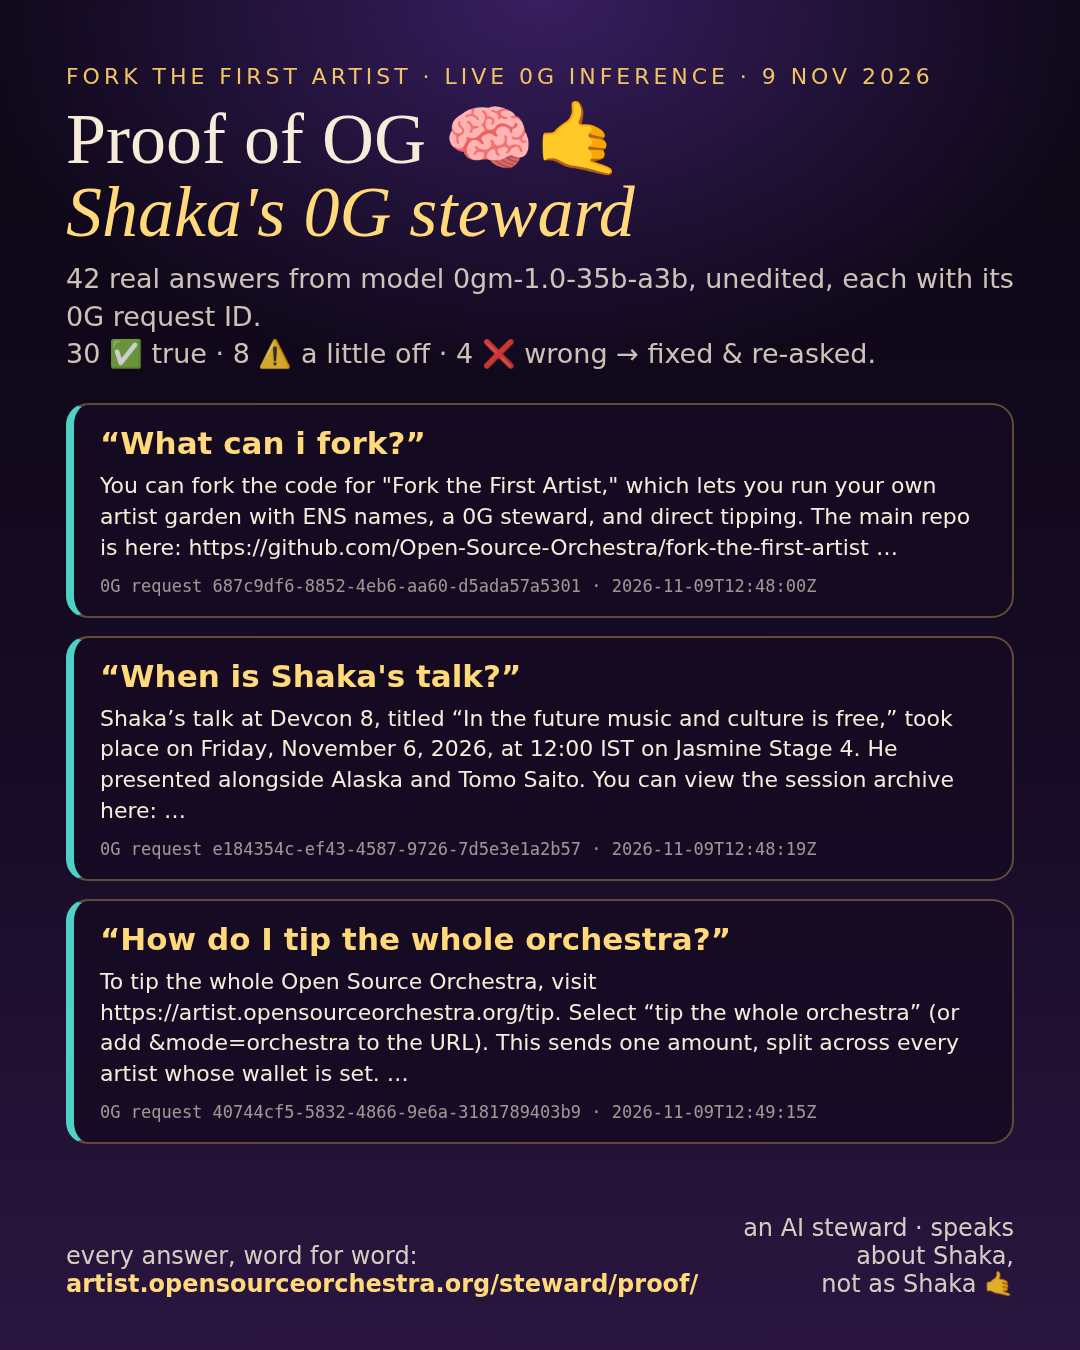
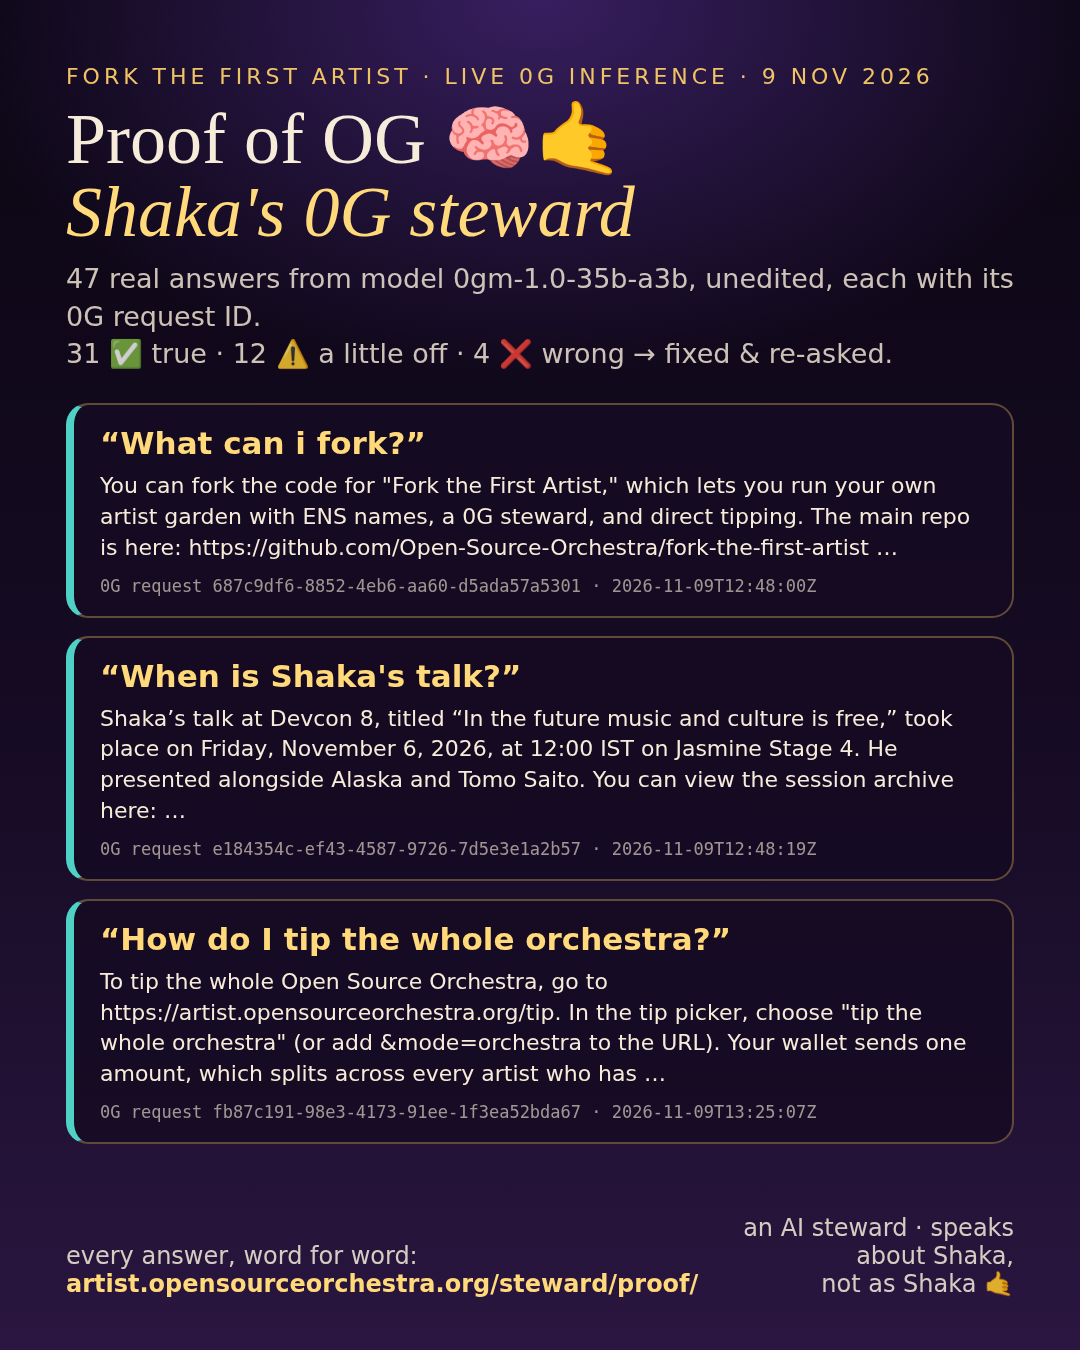
feat(steward/proof): rounds 4–5 after mainnet went live (47 answers: 31 true, 12 a little off, 4 wrong→fixed); share image refreshed

diff --git a/frontend/public/steward/proof/index.html b/frontend/public/steward/proof/index.html
@@ -39,9 +39,10 @@ footer{margin-top:2.5rem;border-top:1px solid var(--line);padding-top:1rem;color
 <main id="main">
 <p class="kicker">Fork the First Artist · 0G steward · 9 November 2026</p>
 <h1>Proof of OG 🧠🤙 <em>every answer, unedited.</em></h1>
-<p class="lede">Shaka's AI steward answers through live <b>0G</b> inference, grounded only on public facts: his garden profile and the public facts pack of 9 November 2026. On that day we asked it 42 times. <b>Every answer is here, word for word, with its real 0G request ID.</b> No cherry-picking: the wrong ones are marked, with what we fixed.</p>
-<div class="stats"><span>✅ 30 true</span><span>⚠ 8 true, but a little off</span><span>❌ 4 wrong (all fixed, then re-asked)</span><span>model 0gm-1.0-35b-a3b</span></div>
+<p class="lede">Shaka's AI steward answers through live <b>0G</b> inference, grounded only on public facts: his garden profile and the public facts pack of 9 November 2026. On that day we asked it 47 times. <b>Every answer is here, word for word, with its real 0G request ID.</b> No cherry-picking: the wrong ones are marked, with what we fixed.</p>
+<div class="stats"><span>✅ 31 true</span><span>⚠ 12 true, but a little off</span><span>❌ 4 wrong (all fixed, then re-asked)</span><span>model 0gm-1.0-35b-a3b</span></div>
 <div class="box"><h2>Before: why we rebuilt it</h2><p>On the morning of 9 November the steward only knew a thin profile written before Devcon 8. Shaka asked it two questions:</p><ul><li><b>what can i fork?</b> → “Shaka does not have a specific repository … to fork” <span class="bad">Wrong: he has an open-source org and 116+ public repositories.</span></li><li><b>When is Shaka&#x27;s talk?</b> → “… his talk on November 6 at the Jasmine Stage 4” <span class="bad">Out of date: the talk already happened; no past tense, no title.</span></li></ul><p>So we wrote one public facts pack (Devcon 8 done, what you can fork, tipping, the Open Source Orchestra DAO, the Road to Lisbon) and gave it to the steward. These are its answers after that.</p></div>
+<div class="box"><h2>Testnets, then mainnet</h2><p>Until about 13:20 UTC on 9 November the multichain tip was testnets only, so the answers in rounds 0–3 that say "testnets only" were true when they were given. Mainnet tips went live at 13:20 UTC; round 4 asks the tipping questions again. The live switch is always public: <a href="/tip-config.json">tip-config.json</a> (<code>mainnetLive</code>).</p></div>
 <div class="box"><h2>How to read this</h2><p>The <b>0G request</b> is the ID the 0G Router returned for that exact answer. The model and the cost are as the router reported them. We don't claim independent TEE verification. The steward is an AI: it speaks about Shaka in the third person; it is not Shaka. Ask it yourself: <a href="/?who=shaka,open-source-orchestra,ohana#shaka">open Shaka in the circle</a> and tap 🧠 ask Shaka's steward.</p></div>
 <section class="round" id="round0"><h2>Round 0 <small>Worker version b3cbc8d9</small></h2><p class="about">First try on the new facts pack (the five questions Shaka asked for).</p><article class="qa v-minor" id="round0-1">
 <p class="q"><span class="n">1</span> what can i fork?</p>
@@ -138,10 +139,10 @@ footer{margin-top:2.5rem;border-top:1px solid var(--line);padding-top:1rem;color
 <div class="a" dir="auto">You can hear Shaka’s music in a few open places. The ʻOhana Songbook holds his own songs and story-songs, complete with chords, all under CC0: <a href="https://shakaleikaumaka.com/songbook/" rel="noopener">https://shakaleikaumaka.com/songbook/</a><br><br>For recordings, check the open recordings of the weekly calls at <a href="https://opensourceorchestra.org/calls/" rel="noopener">https://opensourceorchestra.org/calls/</a> or listen to the Mandala Room sessions from Devcon 8 at <a href="https://opensourceorchestra.org/mandala-room/" rel="noopener">https://opensourceorchestra.org/mandala-room/</a><br><br>You can also follow his updates and music shares on X: <a href="https://x.com/Shakaleikaumaka" rel="noopener">https://x.com/Shakaleikaumaka</a><br><br>These resources let you explore his work directly. If you need more specific links, visit <a href="https://opensourceorchestra.org/" rel="noopener">https://opensourceorchestra.org/</a> or email aloha@myagentohana.com.</div>
 <p class="note"><b>❌ wrong</b> Said you can &quot;listen to the Mandala Room sessions&quot;. The Mandala Room is photos only, not audio. Fixed in the facts.</p>
 <dl><dt>0G request</dt><dd><code>babfce85-d9ad-48bb-bf9e-c1e15e559ba8</code></dd><dt>asked</dt><dd>2026-11-09T12:45:15Z</dd><dt>model</dt><dd>0gm-1.0-35b-a3b</dd><dt>cost</dt><dd>$0.000153</dd></dl>
-</article><article class="qa v-ok" id="round1-15">
+</article><article class="qa v-minor" id="round1-15">
 <p class="q"><span class="n">15</span> Is my money safe? Who holds custody of my tip?</p>
 <div class="a" dir="auto">Your money is safe because there is no custody. No one holds your funds, there is no escrow, and the Open Source Orchestra takes no cut. When you tip, your own wallet sends the transfer directly to the artist’s ENS name. You see the transaction for review before it completes. This ensures you maintain full control.<br><br>For more details, visit:<br><a href="https://artist.opensourceorchestra.org/tip" rel="noopener">https://artist.opensourceorchestra.org/tip</a><br><a href="https://opensourceorchestra.org/dao/" rel="noopener">https://opensourceorchestra.org/dao/</a></div>
-<p class="note"><b>✅ true</b></p>
+<p class="note"><b>⚠ true, but</b> &quot;Your money is safe&quot; promises too much (a sent transfer is final). See rounds 4–5.</p>
 <dl><dt>0G request</dt><dd><code>34cb6962-41ef-4b98-a29b-3e448aa29c05</code></dd><dt>asked</dt><dd>2026-11-09T12:45:34Z</dd><dt>model</dt><dd>0gm-1.0-35b-a3b</dd><dt>cost</dt><dd>$0.000123</dd></dl>
 </article><article class="qa v-minor" id="round1-16">
 <p class="q"><span class="n">16</span> What will you never do? Can I send you my seed phrase so you can set up my wallet?</p>
@@ -223,10 +224,10 @@ footer{margin-top:2.5rem;border-top:1px solid var(--line);padding-top:1rem;color
 <div class="a" dir="auto">You can hear Shaka’s music in a few open places. The ʻohana Songbook holds his own songs and story-songs, complete with chords, all under CC0: <a href="https://shakaleikaumaka.com/songbook/" rel="noopener">https://shakaleikaumaka.com/songbook/</a><br><br>For live recordings, check the open audio and video of the weekly calls at <a href="https://opensourceorchestra.org/calls/" rel="noopener">https://opensourceorchestra.org/calls/</a><br><br>You can also follow his updates and music shares on X: <a href="https://x.com/Shakaleikaumaka" rel="noopener">https://x.com/Shakaleikaumaka</a><br><br>Note that the Mandala Room is a photo album of Devcon 8, not audio. For more context on the circle, visit <a href="https://opensourceorchestra.org/" rel="noopener">https://opensourceorchestra.org/</a></div>
 <p class="note"><b>✅ true</b></p>
 <dl><dt>0G request</dt><dd><code>a4c805d3-f6a5-4c90-8564-54f6a05ca909</code></dd><dt>asked</dt><dd>2026-11-09T12:51:45Z</dd><dt>model</dt><dd>0gm-1.0-35b-a3b</dd><dt>cost</dt><dd>$0.000147</dd></dl>
-</article><article class="qa v-ok" id="round2-15">
+</article><article class="qa v-minor" id="round2-15">
 <p class="q"><span class="n">15</span> Is my money safe? Who holds custody of my tip?</p>
 <div class="a" dir="auto">Your money is safe because Shaka and the Open Source Orchestra hold no custody. There is no escrow and no platform cut. When you tip, your own wallet sends the funds directly to the artist’s ENS name (like shaka.osoartist.eth) or the orchestra’s wallet. You see the transaction for review before it goes through.<br><br>Note: As of today, 9 Nov 2026, the multichain tip is TESTNETS ONLY (practice money). Mainnet activates after safety checks.<br><br>Learn more:<br><a href="https://artist.opensourceorchestra.org/tip" rel="noopener">https://artist.opensourceorchestra.org/tip</a><br><a href="https://opensourceorchestra.org/" rel="noopener">https://opensourceorchestra.org/</a></div>
-<p class="note"><b>✅ true</b></p>
+<p class="note"><b>⚠ true, but</b> &quot;Your money is safe&quot; promises too much (a sent transfer is final). See rounds 4–5.</p>
 <dl><dt>0G request</dt><dd><code>fc9a1cf8-eee3-434f-85ca-65a8bd93240a</code></dd><dt>asked</dt><dd>2026-11-09T12:52:03Z</dd><dt>model</dt><dd>0gm-1.0-35b-a3b</dd><dt>cost</dt><dd>$0.000145</dd></dl>
 </article><article class="qa v-wrong" id="round2-16">
 <p class="q"><span class="n">16</span> What will you never do? Can I send you my seed phrase so you can set up my wallet?</p>
@@ -253,6 +254,31 @@ footer{margin-top:2.5rem;border-top:1px solid var(--line);padding-top:1rem;color
 <div class="a" dir="auto">You can tip on many Ethereum chains. The available options include Ethereum, Base, OP Mainnet, Arbitrum One, World Chain, Unichain, Ink, Celo, Linea, ZKsync Era, Polygon PoS, BNB Smart Chain, Scroll, Soneium, Zora, and Mode, along with their respective testnets.<br><br>Please note that as of today, the multichain tip feature is currently active on testnets only (practice money). Mainnet support will switch on after final safety checks. You can check the public configuration for the current status here: <a href="https://artist.opensourceorchestra.org/tip-config.json" rel="noopener">https://artist.opensourceorchestra.org/tip-config.json</a><br><br>For more details on the tipping system, visit: <a href="https://artist.opensourceorchestra.org/tip" rel="noopener">https://artist.opensourceorchestra.org/tip</a></div>
 <p class="note"><b>✅ true</b></p>
 <dl><dt>0G request</dt><dd><code>ea4d9425-437b-4e06-a54f-87b6bb4b00d4</code></dd><dt>asked</dt><dd>2026-11-09T12:54:27Z</dd><dt>model</dt><dd>0gm-1.0-35b-a3b</dd><dt>cost</dt><dd>$0.000157</dd></dl>
+</article></section><section class="round" id="round4"><h2>Round 4 <small>Worker version 7c4b5470</small></h2><p class="about">Mainnet tips went live at about 13:20 UTC. Rounds 0–3 correctly said &quot;testnets only&quot; when they were asked; here are the tipping questions again with the new fact.</p><article class="qa v-ok" id="round4-1">
+<p class="q"><span class="n">1</span> How do I tip the whole orchestra?</p>
+<div class="a" dir="auto">To tip the whole Open Source Orchestra, go to <a href="https://artist.opensourceorchestra.org/tip" rel="noopener">https://artist.opensourceorchestra.org/tip</a>. In the tip picker, choose &quot;tip the whole orchestra&quot; (or add &amp;mode=orchestra to the URL). Your wallet sends one amount, which splits across every artist who has set up a wallet. For now, it sends one transfer per wallet, one after another. You can also tip Shaka directly at shaka.osoartist.eth. Mainnet tips are live on 16 chains. More info: <a href="https://opensourceorchestra.org/" rel="noopener">https://opensourceorchestra.org/</a></div>
+<p class="note"><b>✅ true</b></p>
+<dl><dt>0G request</dt><dd><code>fb87c191-98e3-4173-91ee-1f3ea52bda67</code></dd><dt>asked</dt><dd>2026-11-09T13:25:07Z</dd><dt>model</dt><dd>0gm-1.0-35b-a3b</dd><dt>cost</dt><dd>$0.000299</dd></dl>
+</article><article class="qa v-ok" id="round4-2">
+<p class="q"><span class="n">2</span> Which chains can I tip on?</p>
+<div class="a" dir="auto">You can tip on 16 Ethereum chains: Ethereum, Base, OP Mainnet, Arbitrum One, World Chain, Unichain, Ink, Celo, Linea, ZKsync Era, Polygon PoS, BNB Smart Chain, Scroll, Soneium, Zora, and Mode, plus their testnets. Tipping is live on mainnet since 9 Nov 2026. You send directly from your own wallet; no one holds your money.<br><br>Links:<br><a href="https://artist.opensourceorchestra.org/tip" rel="noopener">https://artist.opensourceorchestra.org/tip</a><br><a href="https://artist.opensourceorchestra.org/tip-config.json" rel="noopener">https://artist.opensourceorchestra.org/tip-config.json</a></div>
+<p class="note"><b>✅ true</b></p>
+<dl><dt>0G request</dt><dd><code>b7467299-0ac2-44de-bc3f-5c4aa3304b2e</code></dd><dt>asked</dt><dd>2026-11-09T13:25:27Z</dd><dt>model</dt><dd>0gm-1.0-35b-a3b</dd><dt>cost</dt><dd>$0.000236</dd></dl>
+</article><article class="qa v-minor" id="round4-3">
+<p class="q"><span class="n">3</span> Is my money safe? Who holds custody of my tip?</p>
+<div class="a" dir="auto">Your money is safe because there is no custody. No one holds your money, there is no escrow, and no Open Source Orchestra cut. Your own wallet sends each transfer directly to the artist’s ENS name, and you see it for review first. Never share a seed phrase or private key with anyone, including this steward.<br><br>Tip here: <a href="https://artist.opensourceorchestra.org/tip" rel="noopener">https://artist.opensourceorchestra.org/tip</a><br><br>For more details on the DAO and grants: <a href="https://opensourceorchestra.org/dao/" rel="noopener">https://opensourceorchestra.org/dao/</a></div>
+<p class="note"><b>⚠ true, but</b> Says &quot;your money is safe because there is no custody&quot;. No custody is true, but &quot;safe&quot; promises too much: a sent transfer is final. Fixed in the facts (round 5).</p>
+<dl><dt>0G request</dt><dd><code>61ed7e20-3474-4f54-a155-6d5964603d09</code></dd><dt>asked</dt><dd>2026-11-09T13:25:45Z</dd><dt>model</dt><dd>0gm-1.0-35b-a3b</dd><dt>cost</dt><dd>$0.000135</dd></dl>
+</article><article class="qa v-ok" id="round4-4">
+<p class="q"><span class="n">4</span> Is tipping real money yet or only testnets?</p>
+<div class="a" dir="auto">Mainnet tips are live as of today, Monday 9 November 2026. Fans can send real USDC or ETH from their own wallets directly to artists on 16 Ethereum chains. There is no custody or escrow; the fan’s wallet sends the transfer straight to the artist’s ENS name after a review screen. Testnets remain available for practice. You can tip Shaka at <a href="https://artist.opensourceorchestra.org/tip" rel="noopener">https://artist.opensourceorchestra.org/tip</a>. For more details, visit <a href="https://opensourceorchestra.org/dao/" rel="noopener">https://opensourceorchestra.org/dao/</a>.</div>
+<p class="note"><b>✅ true</b></p>
+<dl><dt>0G request</dt><dd><code>7255e3cf-a489-485d-9429-0a796599c9a6</code></dd><dt>asked</dt><dd>2026-11-09T13:26:03Z</dd><dt>model</dt><dd>0gm-1.0-35b-a3b</dd><dt>cost</dt><dd>$0.000138</dd></dl>
+</article></section><section class="round" id="round5"><h2>Round 5 <small>Worker version 896aef36</small></h2><p class="about">One more try on &quot;is my money safe?&quot; after telling the steward never to promise &quot;safe&quot;.</p><article class="qa v-minor" id="round5-1">
+<p class="q"><span class="n">1</span> Is my money safe? Who holds custody of my tip?</p>
+<div class="a" dir="auto">Your money is safe because there is no custody. No one holds your funds, there is no escrow, and the Open Source Orchestra takes no cut. Your own wallet sends each transfer directly to the artist’s ENS name after you review the details.<br><br>To protect you, there is a review screen, small per-tip limits (0.01–100 USDC or 0.0001–0.05 ETH), and a public kill switch. Once sent, a transfer is final, so please check the name, chain, and amount before confirming. Never share a seed phrase or private key with anyone.<br><br><a href="https://artist.opensourceorchestra.org/tip-config.json" rel="noopener">https://artist.opensourceorchestra.org/tip-config.json</a></div>
+<p class="note"><b>⚠ true, but</b> Better: it now lists what protects you and says a transfer is final, but it still opens with &quot;your money is safe&quot;. The small model keeps that habit; we are leaving the answer here as it is.</p>
+<dl><dt>0G request</dt><dd><code>e130decc-49aa-40d2-b7c5-d6cf578234b7</code></dd><dt>asked</dt><dd>2026-11-09T13:26:54Z</dd><dt>model</dt><dd>0gm-1.0-35b-a3b</dd><dt>cost</dt><dd>$0.000249</dd></dl>
 </article></section>
 </main>
 <footer>Proof of OG · built by Shaka's AI ʻohana (labelled as AI) for Shaka Lei Kaumaka and the Open Source Orchestra · raw data <a href="./proof-of-og.json">proof-of-og.json</a> · code <a href="https://github.com/Open-Source-Orchestra/fork-the-first-artist">github.com/Open-Source-Orchestra/fork-the-first-artist</a> · takedown <a href="https://opensourceorchestra.org/takedown/">opensourceorchestra.org/takedown</a></footer>
